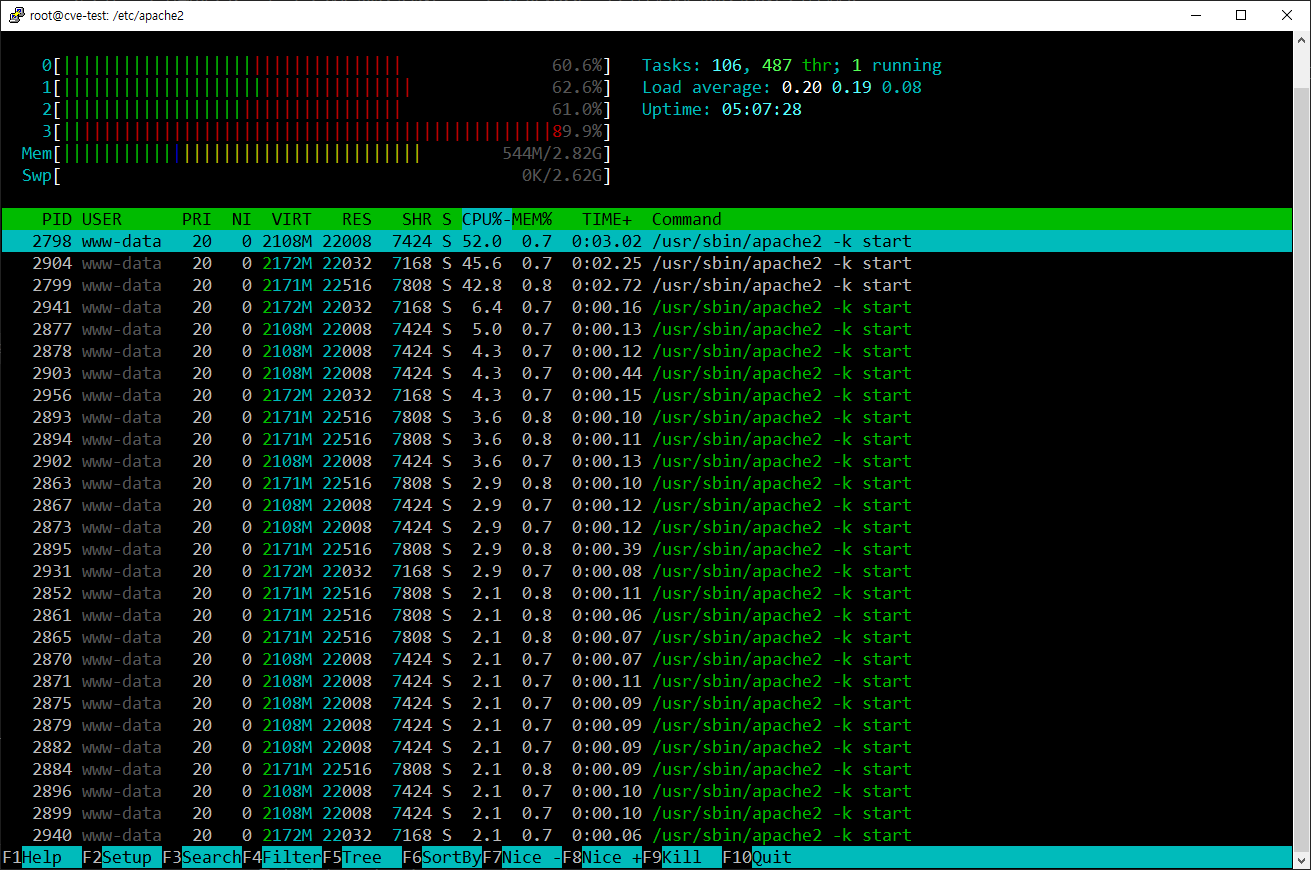
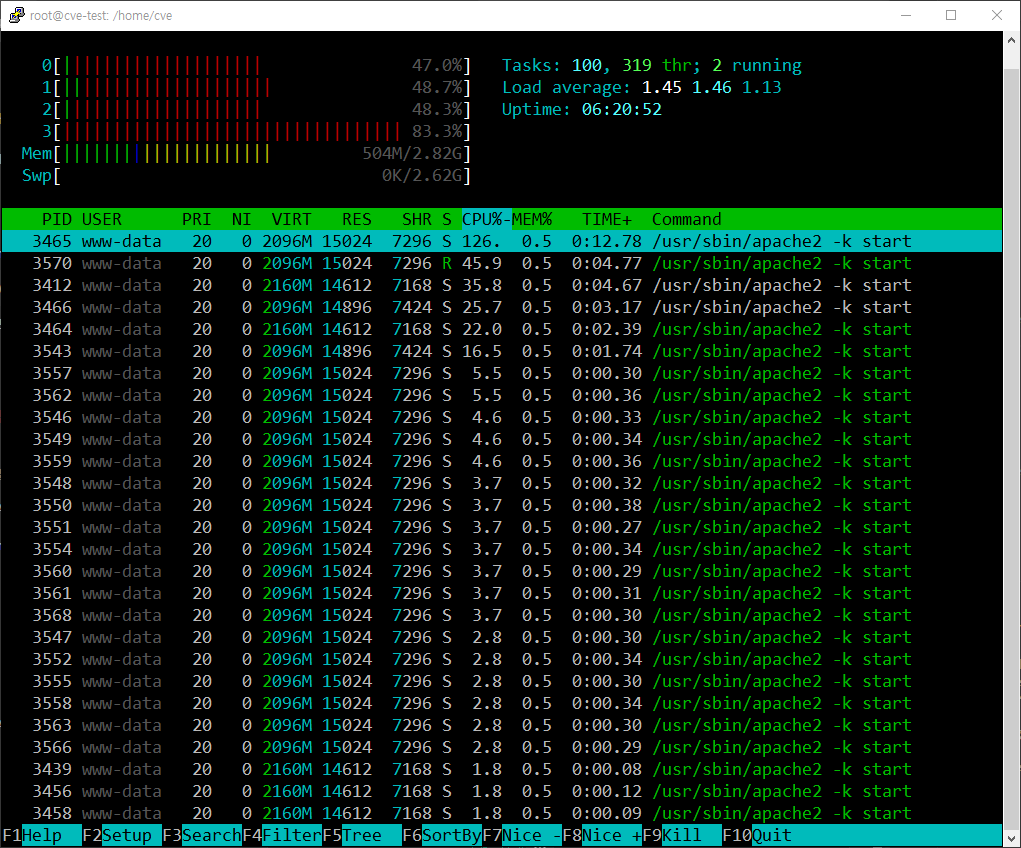
06-23

Changed region(s): [[0.0, 0.0, 1.0, 1.0], [0.0, 0.0, 0.1518, 0.0307]]

diff --git a/docs/cve/cve-2024-27316.md b/docs/cve/cve-2024-27316.md
@@ -96,11 +96,10 @@ LimitRequestFields 1000
 ## 공격 재현
 Python Version : 3.12.3 <br>
 Module : hpack, threading, hyperframe, socket, ssl, multiprocessing
+Code : ↓ (주요 함수 설명)
 
-### import 추가
+### import 추가 
 {: .no_toc }
-
-주요 함수 설명
 
 ```py
 from hpack import Encoder
@@ -123,7 +122,6 @@ def hpack_header(i):
     encoded_headers = encoder.encode(headers)
     return encoded_headers
 ```
-<br>
 
 ### HTTP/2 프레임 반복 생성 후 전송
 {: .no_toc }
@@ -139,18 +137,25 @@ def hpack_header(i):
 ```
 
 ## Apache 서버 DoS 공격 전후 시스템 상태 분석
-- Apache2 시스템 상태 모니터링
+Apache2 시스템 상태 모니터링
+
 ```bash
 htop -p $(pgrep apache2 | tr '\n' ',')
 ```
 
-- DoS 공격 실행 전, CPU, 메모리 사용량이 안정적으로 유지 (평균 : 13.200 MB)
+DoS 공격 실행 전, CPU, 메모리 사용량이 안정적으로 유지 (Mem : 475M)
+
 ![](../../assets/images/cve-2024-27316/Dos-before.png)
 
-- 지속적인 공격이나 높은 부하로 인해 서버의 자원이 고갈되면 프로세스가 비정상적으로 종료
+DoS 공격으로 인해 CPU, 메모리 사용량이 증가 (Mem : 504M)
+
+![](../../assets/images/cve-2024-27316/Dos-after.png)
+
+지속적인 공격이나 높은 부하로 인해 서버의 자원이 고갈되면 프로세스가 비정상적으로 종료
 ![](../../assets/images/cve-2024-27316/result.png)
 
 ---
+
 [NVD]: https://nvd.nist.gov/vuln/detail/CVE-2024-27316
 [Apache]: https://httpd.apache.org/security/vulnerabilities_24.html
 
